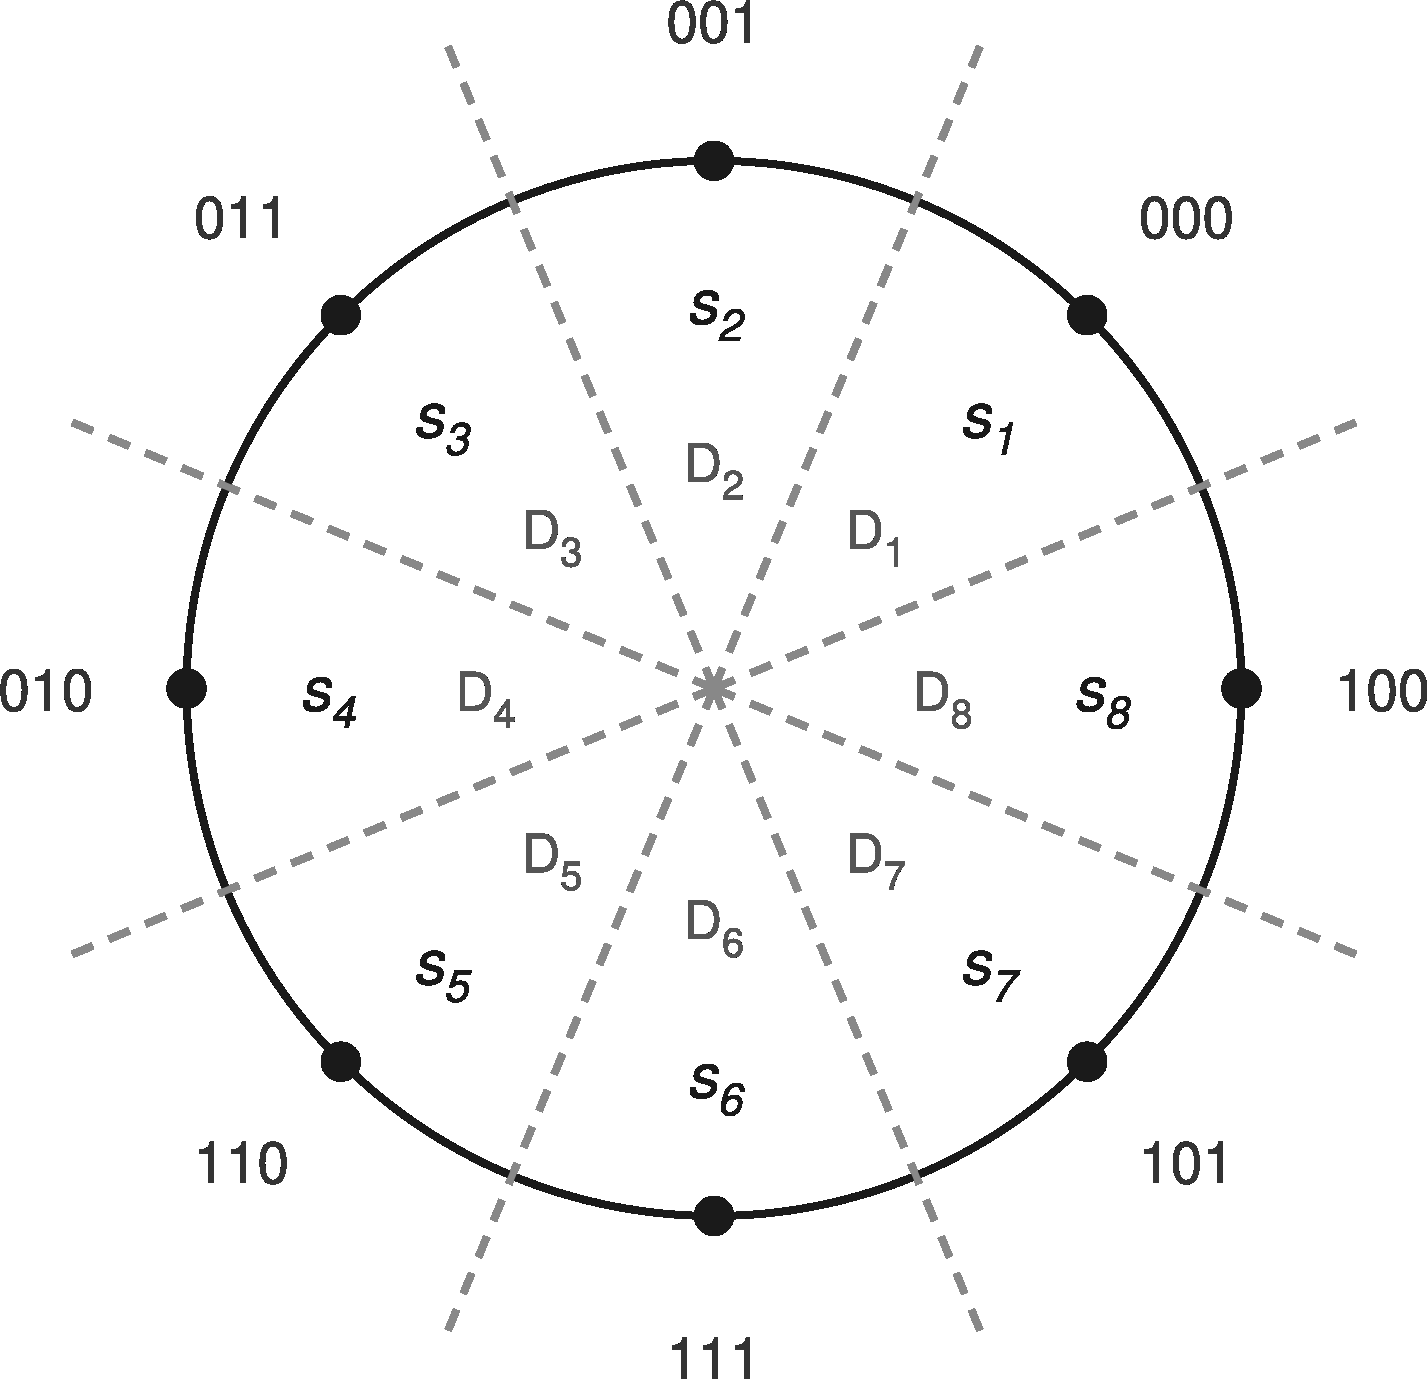
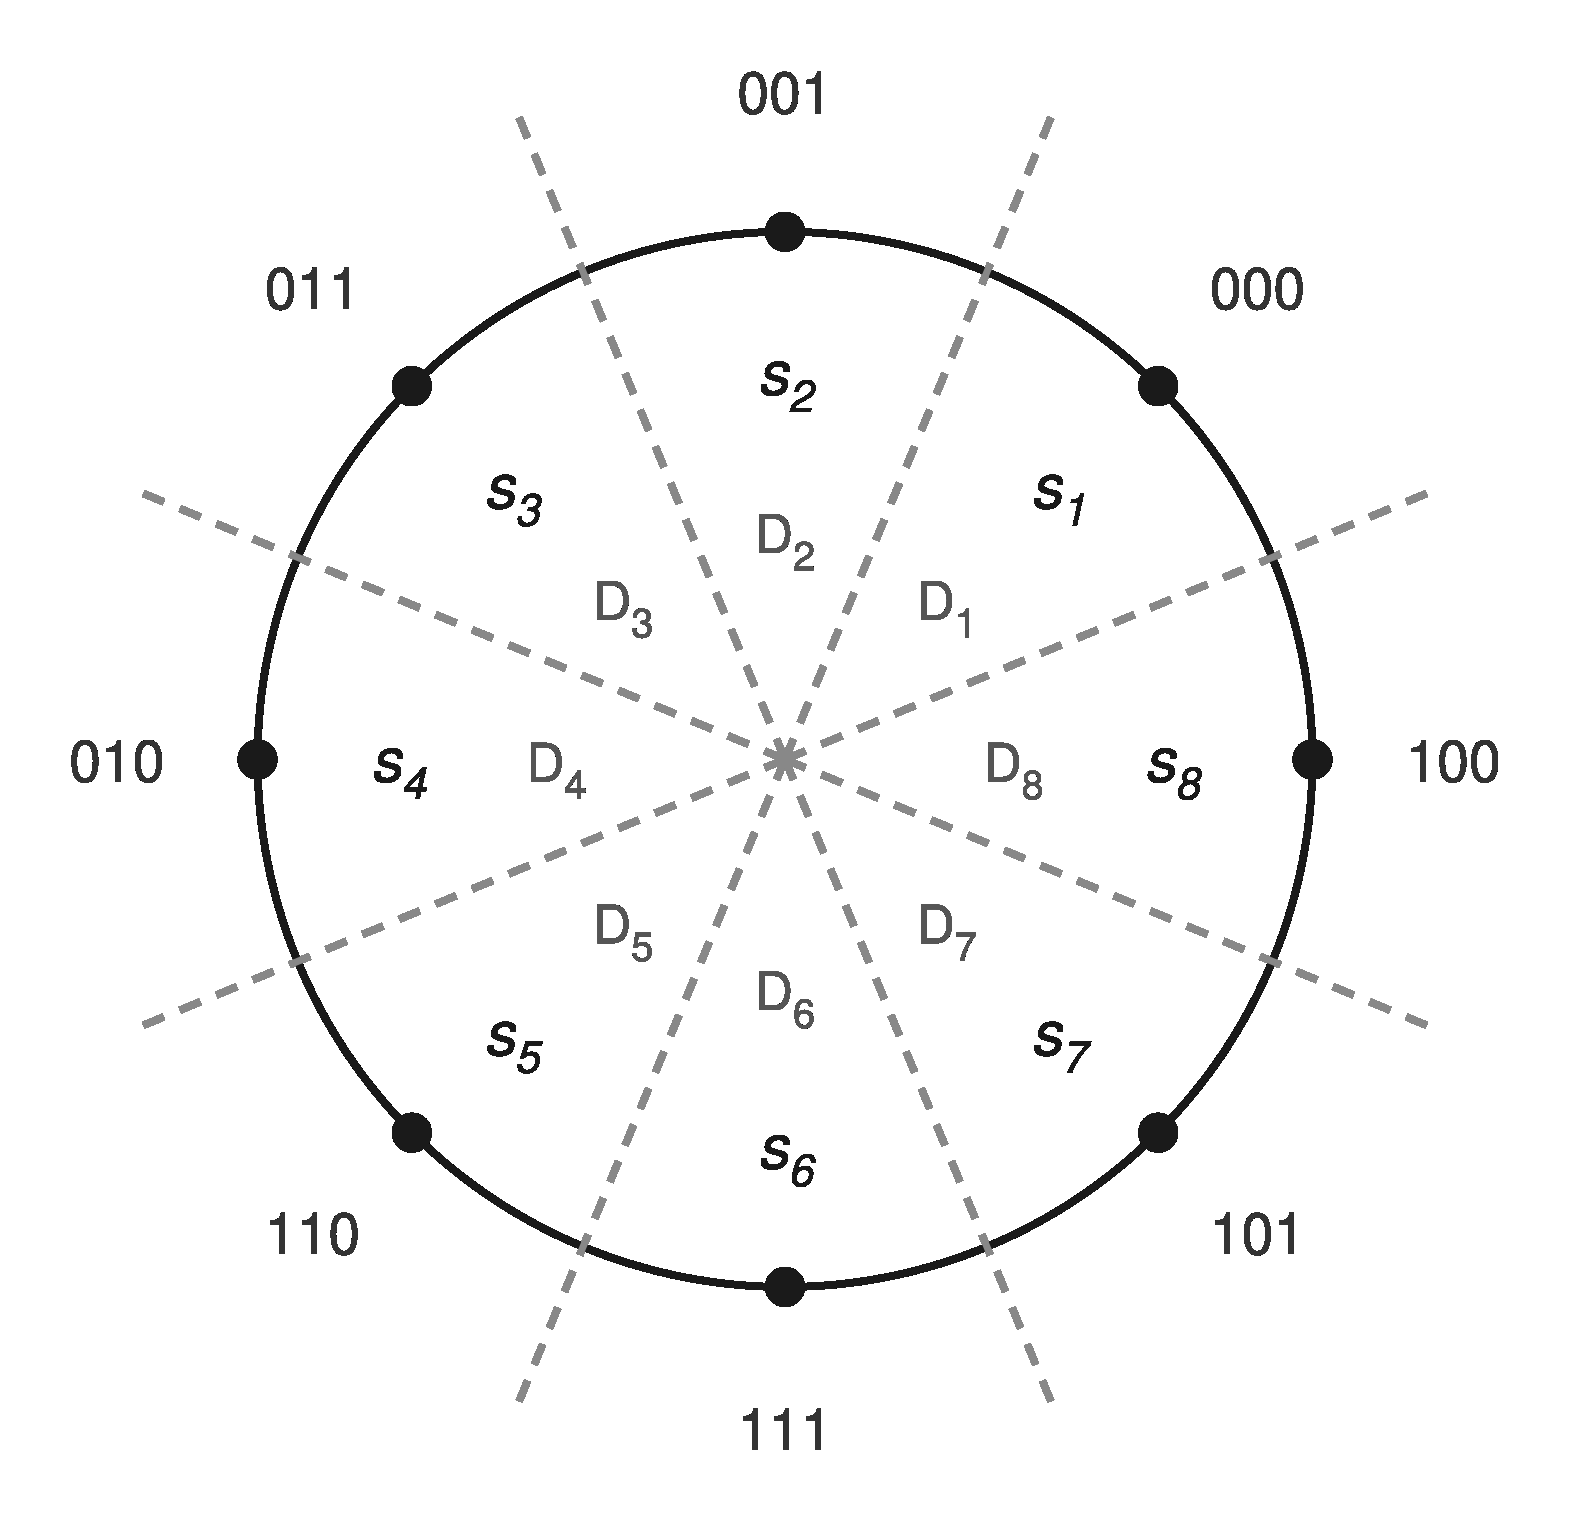
fix(2025): 解析图 PNG 四周留白加宽（内边距≈5%图宽，显示总留白≈49px），题图不动

diff --git a/data/figures/2025/_index.js b/data/figures/2025/_index.js
@@ -6,16 +6,16 @@ window.BUPT801 = window.BUPT801 || {};
 window.BUPT801.figures = window.BUPT801.figures || {};
 window.BUPT801.figureMeta = window.BUPT801.figureMeta || {};
 
-(window.BUPT801.figures["2025"] = window.BUPT801.figures["2025"] || {}).q2psd = { src: '/data/images/2025/answer/2025-二-q2psd.png', w: 1431, h: 678 };
+(window.BUPT801.figures["2025"] = window.BUPT801.figures["2025"] || {}).q2psd = { src: '/data/images/2025/answer/2025-二-q2psd.png', w: 1575, h: 822 };
 (window.BUPT801.figures["2025"] = window.BUPT801.figures["2025"] || {}).ssb = { src: '/data/images/2025/2025-三-ssb.png', w: 920, h: 230 };
-(window.BUPT801.figures["2025"] = window.BUPT801.figures["2025"] || {}).q3psd = { src: '/data/images/2025/answer/2025-三-q3psd.png', w: 1485, h: 371 };
+(window.BUPT801.figures["2025"] = window.BUPT801.figures["2025"] || {}).q3psd = { src: '/data/images/2025/answer/2025-三-q3psd.png', w: 1633, h: 519 };
 (window.BUPT801.figures["2025"] = window.BUPT801.figures["2025"] || {}).pam = { src: '/data/images/2025/2025-四-pam.png', w: 1063, h: 295 };
-(window.BUPT801.figures["2025"] = window.BUPT801.figures["2025"] || {}).q4x = { src: '/data/images/2025/answer/2025-四-q4x.png', w: 1495, h: 502 };
-(window.BUPT801.figures["2025"] = window.BUPT801.figures["2025"] || {}).ookpdf = { src: '/data/images/2025/answer/2025-五-ookpdf.png', w: 1492, h: 603 };
-(window.BUPT801.figures["2025"] = window.BUPT801.figures["2025"] || {}).psk8 = { src: '/data/images/2025/answer/2025-六-psk8.png', w: 1427, h: 1379 };
-(window.BUPT801.figures["2025"] = window.BUPT801.figures["2025"] || {}).psk8new = { src: '/data/images/2025/answer/2025-六-psk8new.png', w: 1406, h: 1522 };
-(window.BUPT801.figures["2025"] = window.BUPT801.figures["2025"] || {}).q7quant = { src: '/data/images/2025/answer/2025-七-q7quant.png', w: 1523, h: 435 };
-(window.BUPT801.figures["2025"] = window.BUPT801.figures["2025"] || {}).q8chan = { src: '/data/images/2025/answer/2025-八-q8chan.png', w: 1462, h: 823 };
+(window.BUPT801.figures["2025"] = window.BUPT801.figures["2025"] || {}).q4x = { src: '/data/images/2025/answer/2025-四-q4x.png', w: 1645, h: 652 };
+(window.BUPT801.figures["2025"] = window.BUPT801.figures["2025"] || {}).ookpdf = { src: '/data/images/2025/answer/2025-五-ookpdf.png', w: 1642, h: 753 };
+(window.BUPT801.figures["2025"] = window.BUPT801.figures["2025"] || {}).psk8 = { src: '/data/images/2025/answer/2025-六-psk8.png', w: 1569, h: 1521 };
+(window.BUPT801.figures["2025"] = window.BUPT801.figures["2025"] || {}).psk8new = { src: '/data/images/2025/answer/2025-六-psk8new.png', w: 1546, h: 1662 };
+(window.BUPT801.figures["2025"] = window.BUPT801.figures["2025"] || {}).q7quant = { src: '/data/images/2025/answer/2025-七-q7quant.png', w: 1675, h: 587 };
+(window.BUPT801.figures["2025"] = window.BUPT801.figures["2025"] || {}).q8chan = { src: '/data/images/2025/answer/2025-八-q8chan.png', w: 1608, h: 969 };
 (window.BUPT801.figures["2025"] = window.BUPT801.figures["2025"] || {}).encoder = { src: '/data/images/2025/2025-九-encoder.png', w: 1011, h: 295 };
 
 (window.BUPT801.figureMeta["2025"] = window.BUPT801.figureMeta["2025"] || {}).q2psd = { q: "题二", kind: "answer", desc: "带限白噪声功率谱：高 N0/2、宽 2B 的矩形" };
